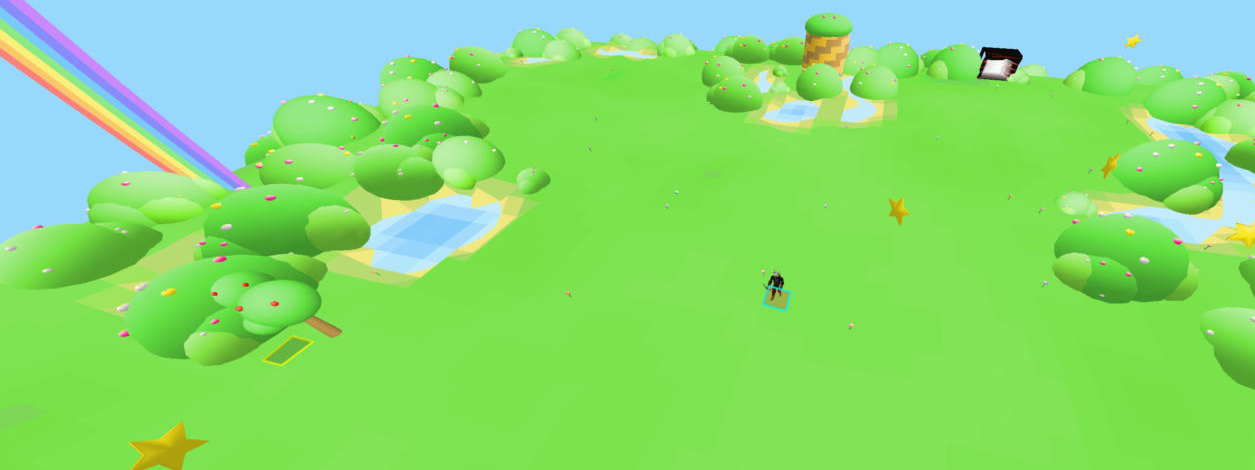
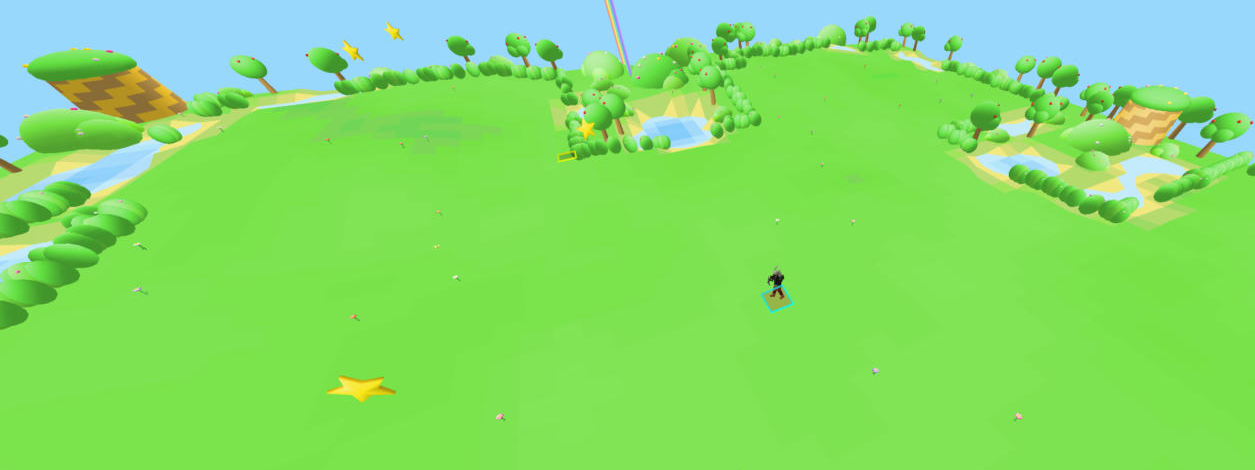
Use the hedge screenshot, drop the Kirby one

diff --git a/README.md b/README.md
@@ -12,8 +12,6 @@ else sees it.
 
 ![Dreamland caves](docs/dreamland.png)
 
-![Kirby and Waddle Dees](docs/kirby.png)
-
 ## Installing
 
 Grab `kirby-jad-*.jar` from [Releases](../../releases) and sideload it with your preferred method.
